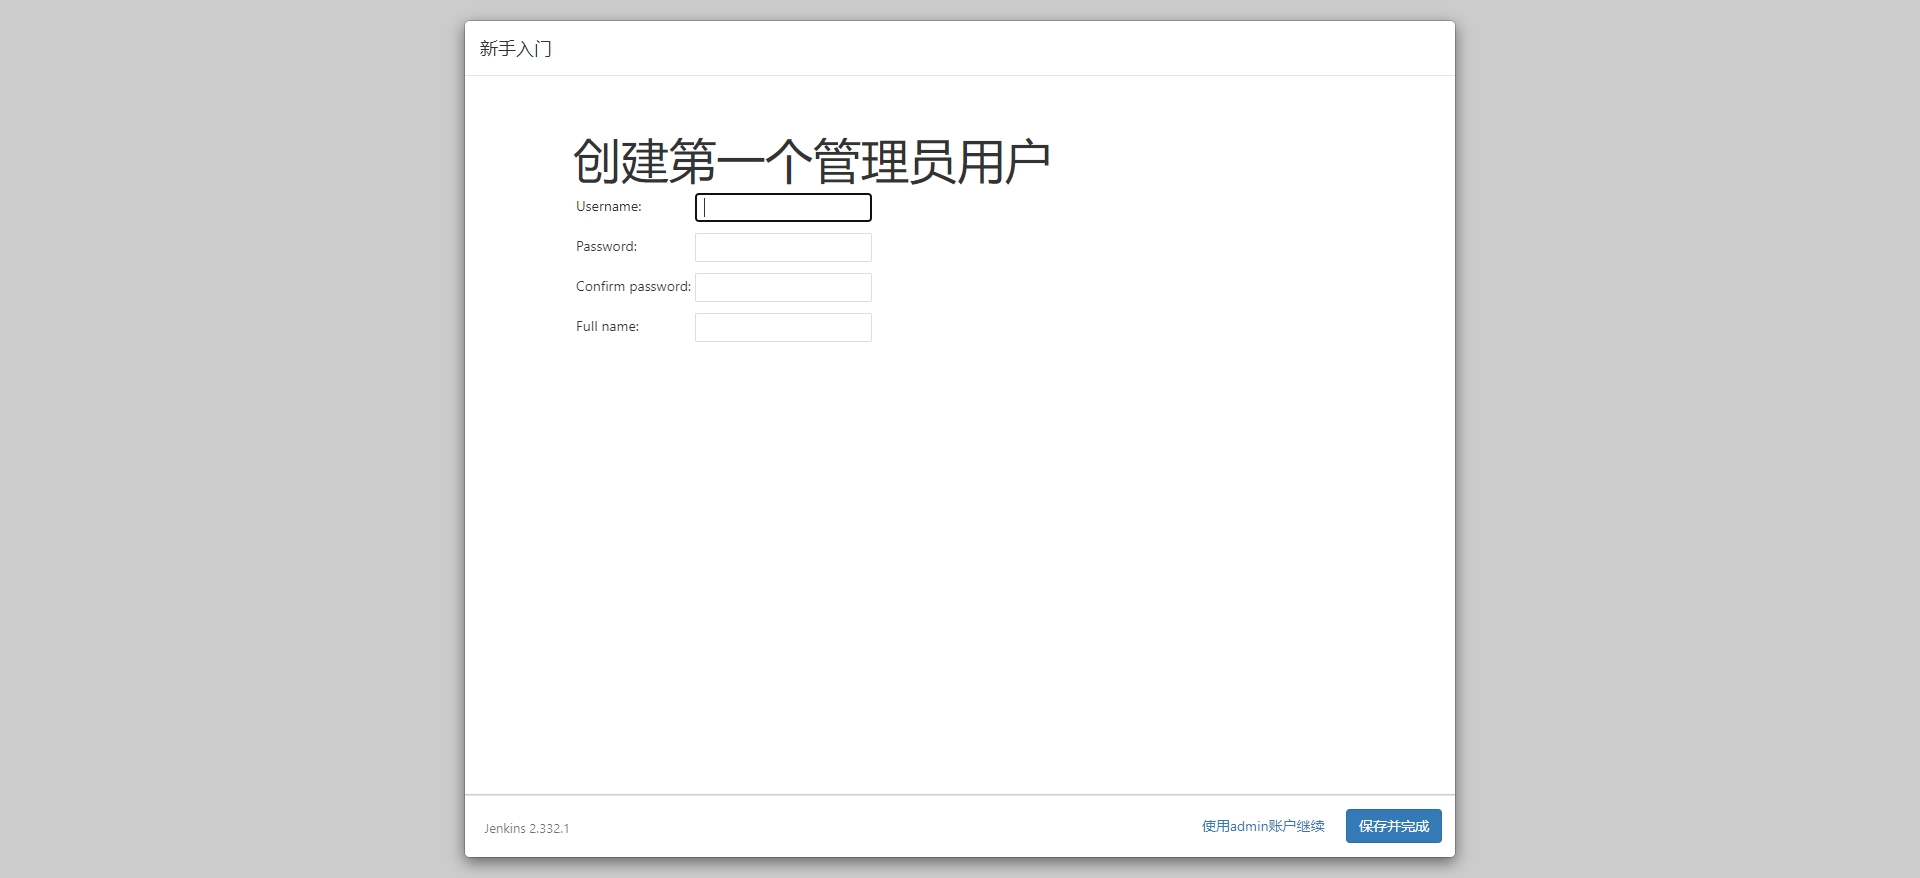
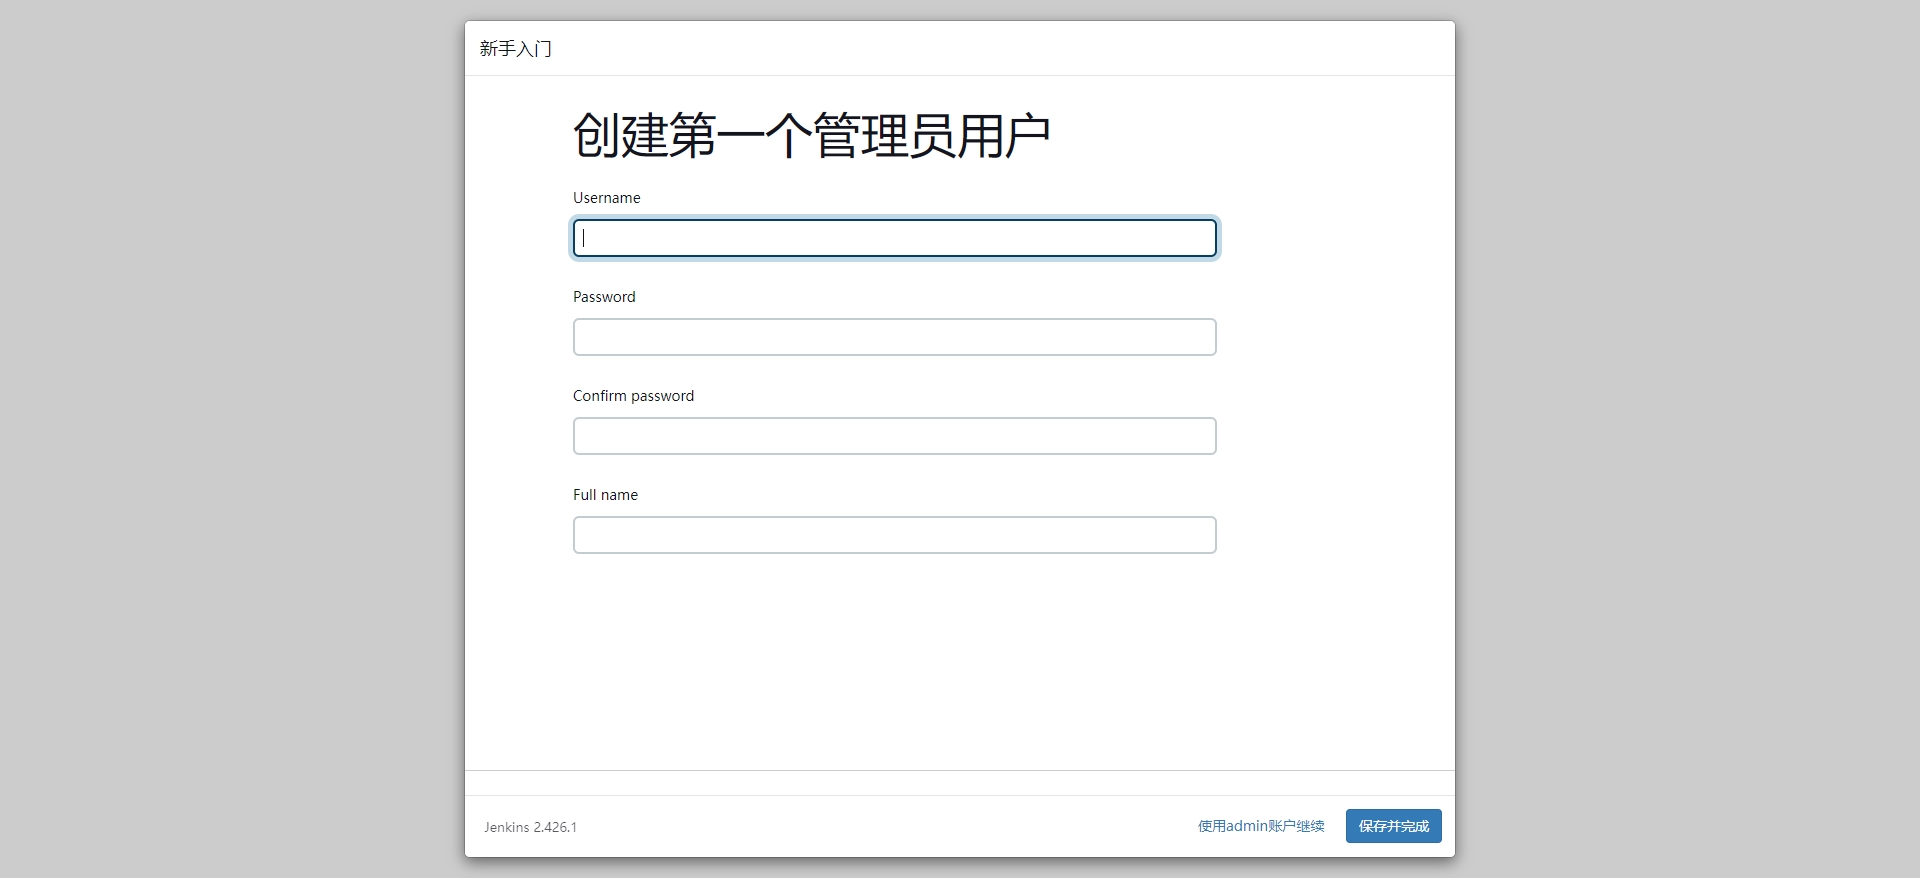
update

diff --git a/docs/deploy/jenkins.md b/docs/deploy/jenkins.md
@@ -1,4 +1,4 @@
-# Jenkins 2.332
+# Jenkins 2.426 LTS
 
 Jenkins是一个开源软件项目，是基于Java开发的一种持续集成工具，用于监控持续重复的工作，旨在提供一个开放易用的软件平台，使软件项目可以进行持续集成
 
@@ -9,8 +9,8 @@ Jenkins是一个开源软件项目，是基于Java开发的一种持续集成工
 | **名称**  | **IP地址**  | **安装的软件**  |
 | :---------- | :---------- | :---------------------------------- |
 | 代码托管服务器    | 172.17.17.196 | Gitlab-12.4.2 |
-| 持续集成服务器    | 172.17.17.200 | Jenkins-2.332，JDK1.8，Maven3.6.3，Git，SonarQube |
-| 应用测试服务器    | 172.17.17.196 | JDK1.8，Tomcat8.5 |
+| 持续集成服务器    | 172.17.17.200 | Jenkins-2.426，JDK17，Maven3.6.3，Git，SonarQube |
+| 应用测试服务器    | 172.17.17.196 | JDK8，Tomcat8.5.100 |
 
 ### 1.1 Gitlab安装
 
@@ -21,30 +21,35 @@ Jenkins是一个开源软件项目，是基于Java开发的一种持续集成工
 #### 1.2.1 下载安装
 
 ```bash
-yum install java-1.8.0-openjdk* -y  # 安装目录：/usr/lib/jvm
+# 安装依赖
 yum -y install epel-release daemonize
-wget https://get.jenkins.io/redhat-stable/jenkins-2.332.1-1.1.noarch.rpm
-rpm -ivh jenkins-2.332.1-1.1.noarch.rpm
+# 安装jdk17
+wget https://download.oracle.com/java/17/latest/jdk-17_linux-x64_bin.rpm
+rpm -ivh jdk-17_linux-x64_bin.rpm
+# jenkins
+wget https://get.jenkins.io/redhat-stable/jenkins-2.426.1-1.1.noarch.rpm
+rpm -ivh jenkins-2.426.1-1.1.noarch.rpm
 ```
 
 > 如果安装过，可以卸载
 
 ```bash
 rpm -qa |grep jenkins
-rpm -e --nodeps jenkins-2.332.1-1.1.noarch
+rpm -e --nodeps jenkins-2.426.1-1.1.noarch
+find / -iname jenkins | xargs -n 1000 rm -rf
 ```
 
 #### 1.2.2 修改配置
 
 ```bash
-vi /etc/sysconfig/jenkins
+vim /usr/lib/systemd/system/jenkins.service
 ```
 
-设置启动用户和默认端口号
+设置启动用户组
 
 ```conf
-JENKINS_USER="root"
-JENKINS_PORT="8080"
+User=root
+Group=root
 ```
 
 #### 1.2.3 启动服务
@@ -72,18 +77,18 @@ systemctl start jenkins
 
 ![](../../assets/_images/deploy/jenkins/jenkins_skip4.png)
 
+![](../../assets/_images/deploy/jenkins/jenkins_skip5.png)
+
+![](../../assets/_images/deploy/jenkins/jenkins_skip6.png)
 
 ### 1.3 插件管理
 
 #### 1.3.1 修改插件下载地址
 
-Jenkins->Manage Jenkins->Manage Plugins，点击`Advanced`，把`Update Site`地址改为`http://updates.jenkins-zh.cn/update-center.json`来解除https校验，这样做是为了把Jenkins官方的插件列表下载到本地。
+Dashboard -> Manage Jenkins -> Plugins，点击`Advanced settings`，将`Update Site`地址改为`https://mirrors.tuna.tsinghua.edu.cn/jenkins/updates/update-center.json`
 
-![](../../assets/_images/deploy/jenkins/jenkins_plugin_https.png)
+![](../../assets/_images/deploy/jenkins/jenkins_plugin_tuna.png)
 
-然后，Manage Plugins点击`Available`待全部载入完毕
-
-![](../../assets/_images/deploy/jenkins/jenkins_plugin_load.png)
 
 修改地址文件
 
@@ -93,18 +98,13 @@ sed -i 's/http:\/\/updates.jenkinsci.org\/download/https:\/\/mirrors.tuna.tsingh
 sed -i 's/http:\/\/www.google.com/https:\/\/www.baidu.com/g' default.json
 ```
 
-最后，Manage Plugins点击`Advanced`，把`Update Site`改为清华大学插件下载地址
 
-```bash
-https://mirrors.tuna.tsinghua.edu.cn/jenkins/updates/update-center.json
-```
 
-![](../../assets/_images/deploy/jenkins/jenkins_plugin_tuna.png)
 
 重启服务：http://172.17.17.200:8888/restart
 
 
-#### 1.3.2 汉化插件
+#### 1.3.2 下载中文汉化插件
 
 ![](../../assets/_images/deploy/jenkins/jenkins_plugin_chinese.png)
 
